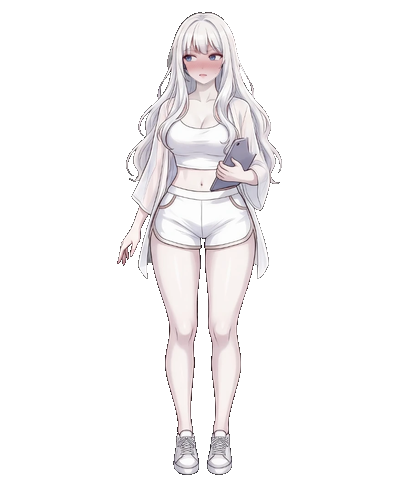
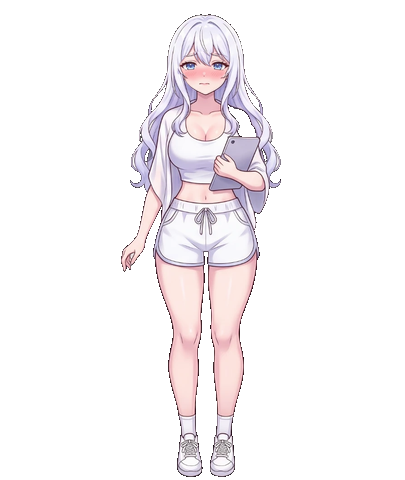
feat: regenerate Yuki's sheets in the shared art style
The first sheets were semi-realistic (faint lines, grey shading) and stood
out next to the other characters. New sheets drawn with the style-locked
prompt; frames rebuilt with panel-frame-aware crops and per-expression
adjust. Docs: CLAUDE.md and HISTORY.md are now updated with every task.

Claude-Session: https://claude.ai/code/session_01L42W33ifVQcmMy8xts9BDQ

Changed region(s): [[0.2963, 0.0, 0.7111, 1.0]]

diff --git a/tools/build_frames.py b/tools/build_frames.py
@@ -89,31 +89,28 @@ CHARACTERS = {
         ),
     ),
     "yuki": dict(
+        # Second sheet set (2026-10-07), redrawn in the shared style; the first set was semi-real.
         eye_px=0.767 * 89,
         base=dict(
-            sheet="reference_sheet.webp", crop=(1040, 0, 1960, 1116), mid=(1467.5, 346.5), dist=125,
-            talk=((1472, 437), (21, 15.6)),
-            blink=((1358, 1442, 328, 368), (1498, 1584, 322, 362)), skin="lerp", lash=3.0, feather=1.5,
+            sheet="reference_sheet.webp", crop=(1080, 0, 1960, 1116), mid=(1497.5, 362), dist=137,
+            talk=((1505, 458), (21, 15)),
+            blink=((1388, 1470, 343, 392), (1525, 1610, 343, 392)), skin=(1500, 385), lash=3.0, feather=2.0,
         ),
-        # erase: sheet boxes where semi-transparent leftovers of the background (a sticky note
-        # and the board edge beside the hair) are dropped; the opaque hair stays.
-        full=dict(crop=(170, 60, 580, 1116), top=87, bottom=1099, mid=(373, 184.5), dist=49.5,
-                  erase=((420, 60, 580, 240),),
-                  face=dict(oval=(1.0, -0.55, 1.25), bottom={"thinking": 0.92})),
+        # Sheet background decorations (calendar, notes) are separate blobs and get dropped.
+        full=dict(crop=(180, 40, 570, 1116), top=72, bottom=1098, mid=(374.5, 191), dist=59,
+                  face=dict(oval=(0.95, -0.55, 1.05))),
         expressions=dict(
+            # Each panel has a white frame line: crop inside it. Rows also stop above the labels.
             sheet="reference_expressions.webp",
-            # Rows stop above the Korean/English labels printed under each face.
-            columns=((60, 690), (700, 1320), (1330, 1960)), rows=((40, 470), (590, 965)),
-            mids=dict(happy=(397, 219), thinking=(1001.5, 220.5), surprised=(1602.5, 228),
-                      sad=(387.5, 770), angry=(1001, 772), shy=(1596, 772)),
-            # The panels are not drawn at one scale (and closed or narrowed eyes sit wider apart),
-            # so each has its own eye distance, calibrated by head height against the neutral.
-            dist=dict(happy=77, thinking=79, surprised=81, sad=90, angry=91, shy=90),
-            # Head size/position fix after eye alignment: (scale, dx, dy) in output px, found by
-            # overlaying each frame's hair silhouette and face skin on neutral (best IoU).
-            adjust=dict(happy=(0.965, 1.5, -1.5), thinking=(1.0, 4.5, -1), surprised=(0.995, 6, -1),
-                        sad=(1.05, -3, 5.5), angry=(1.05, 4, 7), shy=(1.02, 0, 6)),
-            talk=dict(thinking=((1001, 278), (11, 8)), sad=((390, 830), (11, 8)), angry=((1000, 833), (11, 8))),
+            columns=((90, 664), (712, 1290), (1336, 1914)), rows=((50, 506), (608, 1022)),
+            mids=dict(happy=(375.5, 240), thinking=(1005, 233), surprised=(1625, 237),
+                      sad=(376.5, 810), angry=(997.5, 810), shy=(1618.5, 810)),
+            dist=dict(happy=91, thinking=84, surprised=80, sad=97, angry=95, shy=93),
+            # Happy's closed eyes sit wider than open ones would, so its eye distance overstates the size.
+            adjust=dict(happy=(1.12, 2.5, 7), thinking=(1.035, 7, 2), surprised=(0.99, 2.5, 5.5),
+                        sad=(1.03, 2.5, 0.5), angry=(1.005, 2.5, 0.5), shy=(0.985, 2, 0.5)),
+            talk=dict(happy=((377, 287), (10, 7)), thinking=((1002, 286), (10, 7)), sad=((377, 870), (10, 7)),
+                      shy=((1620, 872), (10, 7))),
         ),
     ),
     "akane": dict(

diff --git a/assets/characters/README.md b/assets/characters/README.md
@@ -124,14 +124,13 @@ python tools/build_frames.py nuri   # 세라는 sera, 유키는 yuki
 
 ## 유키 이미지 현황
 
-`yuki/` 폴더도 같은 방식으로 만들었습니다 (`python tools/build_frames.py yuki`).
+`yuki/` 폴더 (`python tools/build_frames.py yuki`). **2026-10-07에 시트를 다시 뽑았습니다.** 첫 시트는 그림체를 고정하는 프롬프트 전에 뽑아 반실사·흐린 선·회색빛 채색으로 혼자 달라 보였고, 다른 캐릭터 시트를 첨부하고 그림체를 문장으로 고정한 프롬프트로 다시 뽑았습니다(체형은 사용자 친구 요청으로 글래머 강조, 옷은 같음).
 
-- 원본: `reference_sheet.webp`, `reference_expressions.webp` (둘 다 2000×1116)
-- 표정 시트의 칸마다 얼굴 크기가 달라서, 표정별로 눈 사이 거리를 따로 적고(`dist`가 표정별 값), 남은 차이는 `adjust`로 보정했습니다.
-- 칸 아래 한글·영어 이름표가 프레임에 들어오지 않게 자르는 줄(`rows`)을 이름표 위에서 끊었습니다.
-- 말하는 입: `neutral_talk`, `thinking_talk`, `sad_talk`, `angry_talk`
-- 눈 감은 모습은 눈 양옆 피부색을 줄마다 이어 칠하는 방식(`skin="lerp"`)입니다. 볼 홍조가 있는 그림은 한 가지 색으로 덮으면 눈 자리에 얼룩이 보여서입니다.
-- 전신: 머리 옆에 붙은 포스트잇과 배경판의 반투명 잔상을 `erase` 범위에서 지웁니다(불투명한 머리카락은 남음).
+- 원본: `reference_sheet.webp`, `reference_expressions.webp` (둘 다 2000×1116). 기본 시트 배경의 달력·포스트잇은 떨어진 덩어리라 자동으로 지워집니다.
+- 표정 시트 칸마다 흰 테두리 선이 있어 `columns`/`rows`를 테두리 안쪽으로 잡았습니다(이름표도 밖).
+- 기쁨은 눈을 감아 눈 사이 거리가 실제보다 넓게 재져 12% 작게 나와서 `adjust`로 키웠습니다. 나머지 표정 차이는 4% 안.
+- 깜빡임은 두 눈 사이 피부 한 점 색(`skin=(1500, 385)`).
+- 말하는 입: `neutral_talk`, `happy_talk`, `thinking_talk`, `sad_talk`, `shy_talk`.
 
 ## 아카네 이미지 현황
 

diff --git a/HISTORY.md b/HISTORY.md
@@ -2,6 +2,13 @@
 
 개발 기록입니다. 최신이 위에 옵니다. 작업 원칙·구조·관례는 [CLAUDE.md](CLAUDE.md)를 보세요.
 
+## 2026-10-07 — 유키 시트 재생성 (그림체 통일)
+
+- 사용자 지적: 유키만 그림체가 다름. 다섯 명을 나란히 보니 유키만 외곽선이 흐리고 회색빛 반실사 채색, 작은 눈, 긴 얼굴이었습니다. 그림체 고정 프롬프트(다른 캐릭터 시트 첨부 + 선·채색·눈·얼굴 비율을 문장으로)를 만들기 전에 뽑은 시트였기 때문.
+- 디자인(백발 웨이브, 크롭탑·숄·돌핀팬츠)과 성격·대사·목소리는 그대로, 시트만 다시 뽑아 교체. 체형은 사용자 친구 요청으로 글래머 강조(옷 입은 상태, 노출 없음, 기존 세라·유키와 같은 수준이라 저장소에 둠).
+- 새 표정 시트는 칸마다 흰 테두리가 있어 테두리 안쪽으로 자르고, 기쁨(눈 감음)이 12% 작게 재져 `adjust`로 보정. 옛 시트용 설정(`erase`, `skin="lerp"`, 표정별 rows)은 새 설정으로 교체.
+- 사용자 지시로 **작업마다 CLAUDE.md·HISTORY.md를 항상 갱신**하는 규칙을 CLAUDE.md 맨 위에 적었고, 캐릭터 추가 절차에 "그림체가 혼자 다르면 시트부터 다시 뽑기" 단계를 넣었습니다.
+
 ## 2026-10-07 — 시즈쿠 그림 추가
 
 - 은청색 단발 쿠데레 시즈쿠(성격·대사·목소리는 원래 있음). 그림 있는 캐릭터 5명. 프롬프트에 미리 넣은 조건(6칸 같은 크기, 손 금지, 아이콘 금지, 정면) 덕에 표정 크기 차이가 아카네(14%)보다 작은 7%였고, 기본 시트 배경 장식은 자동 정리로 지워졌습니다.
